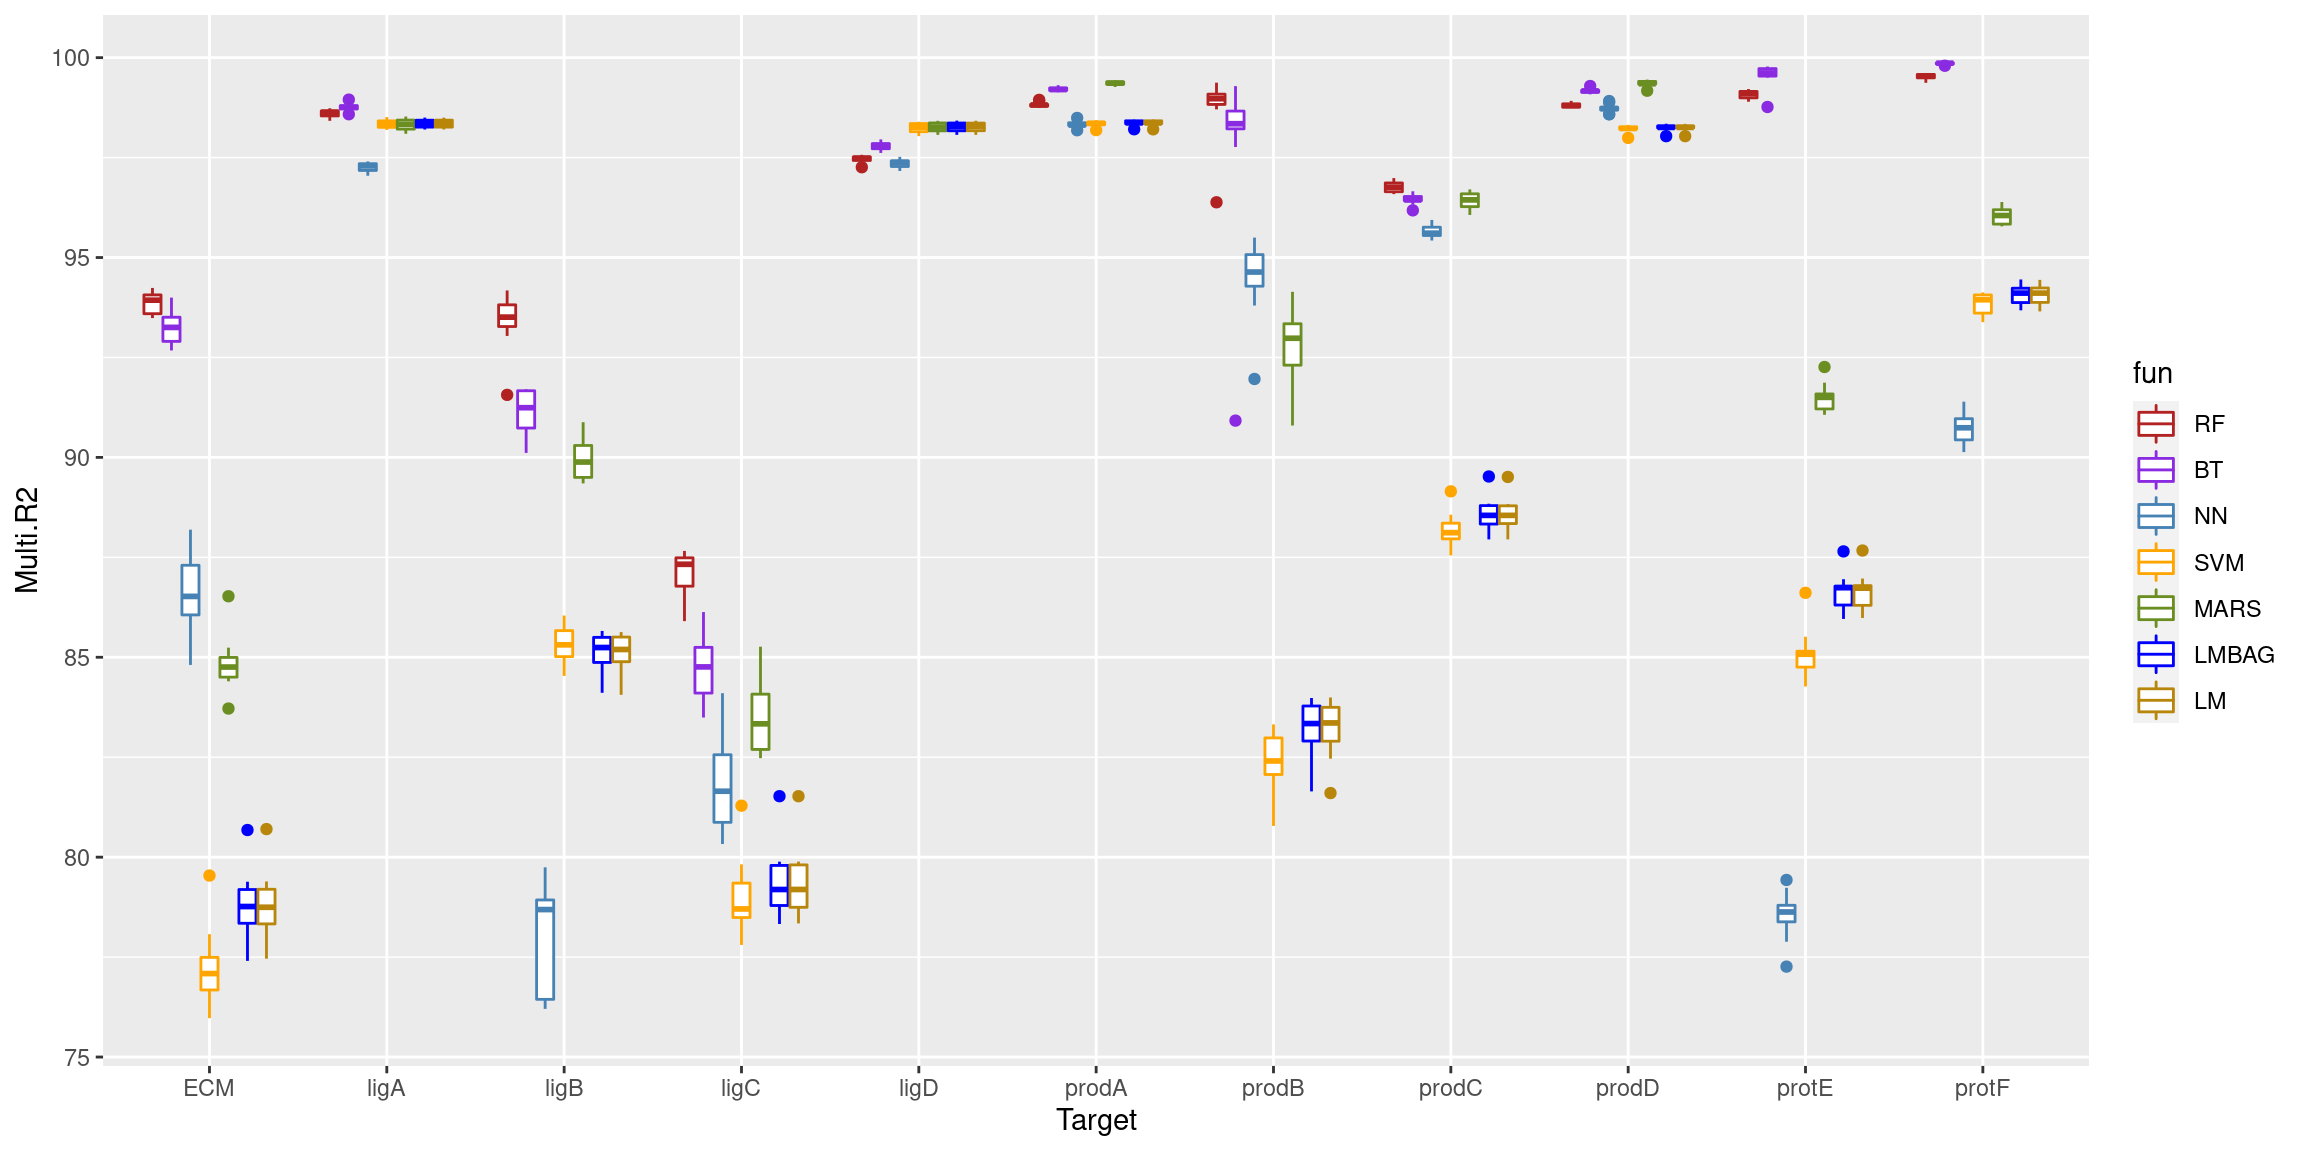
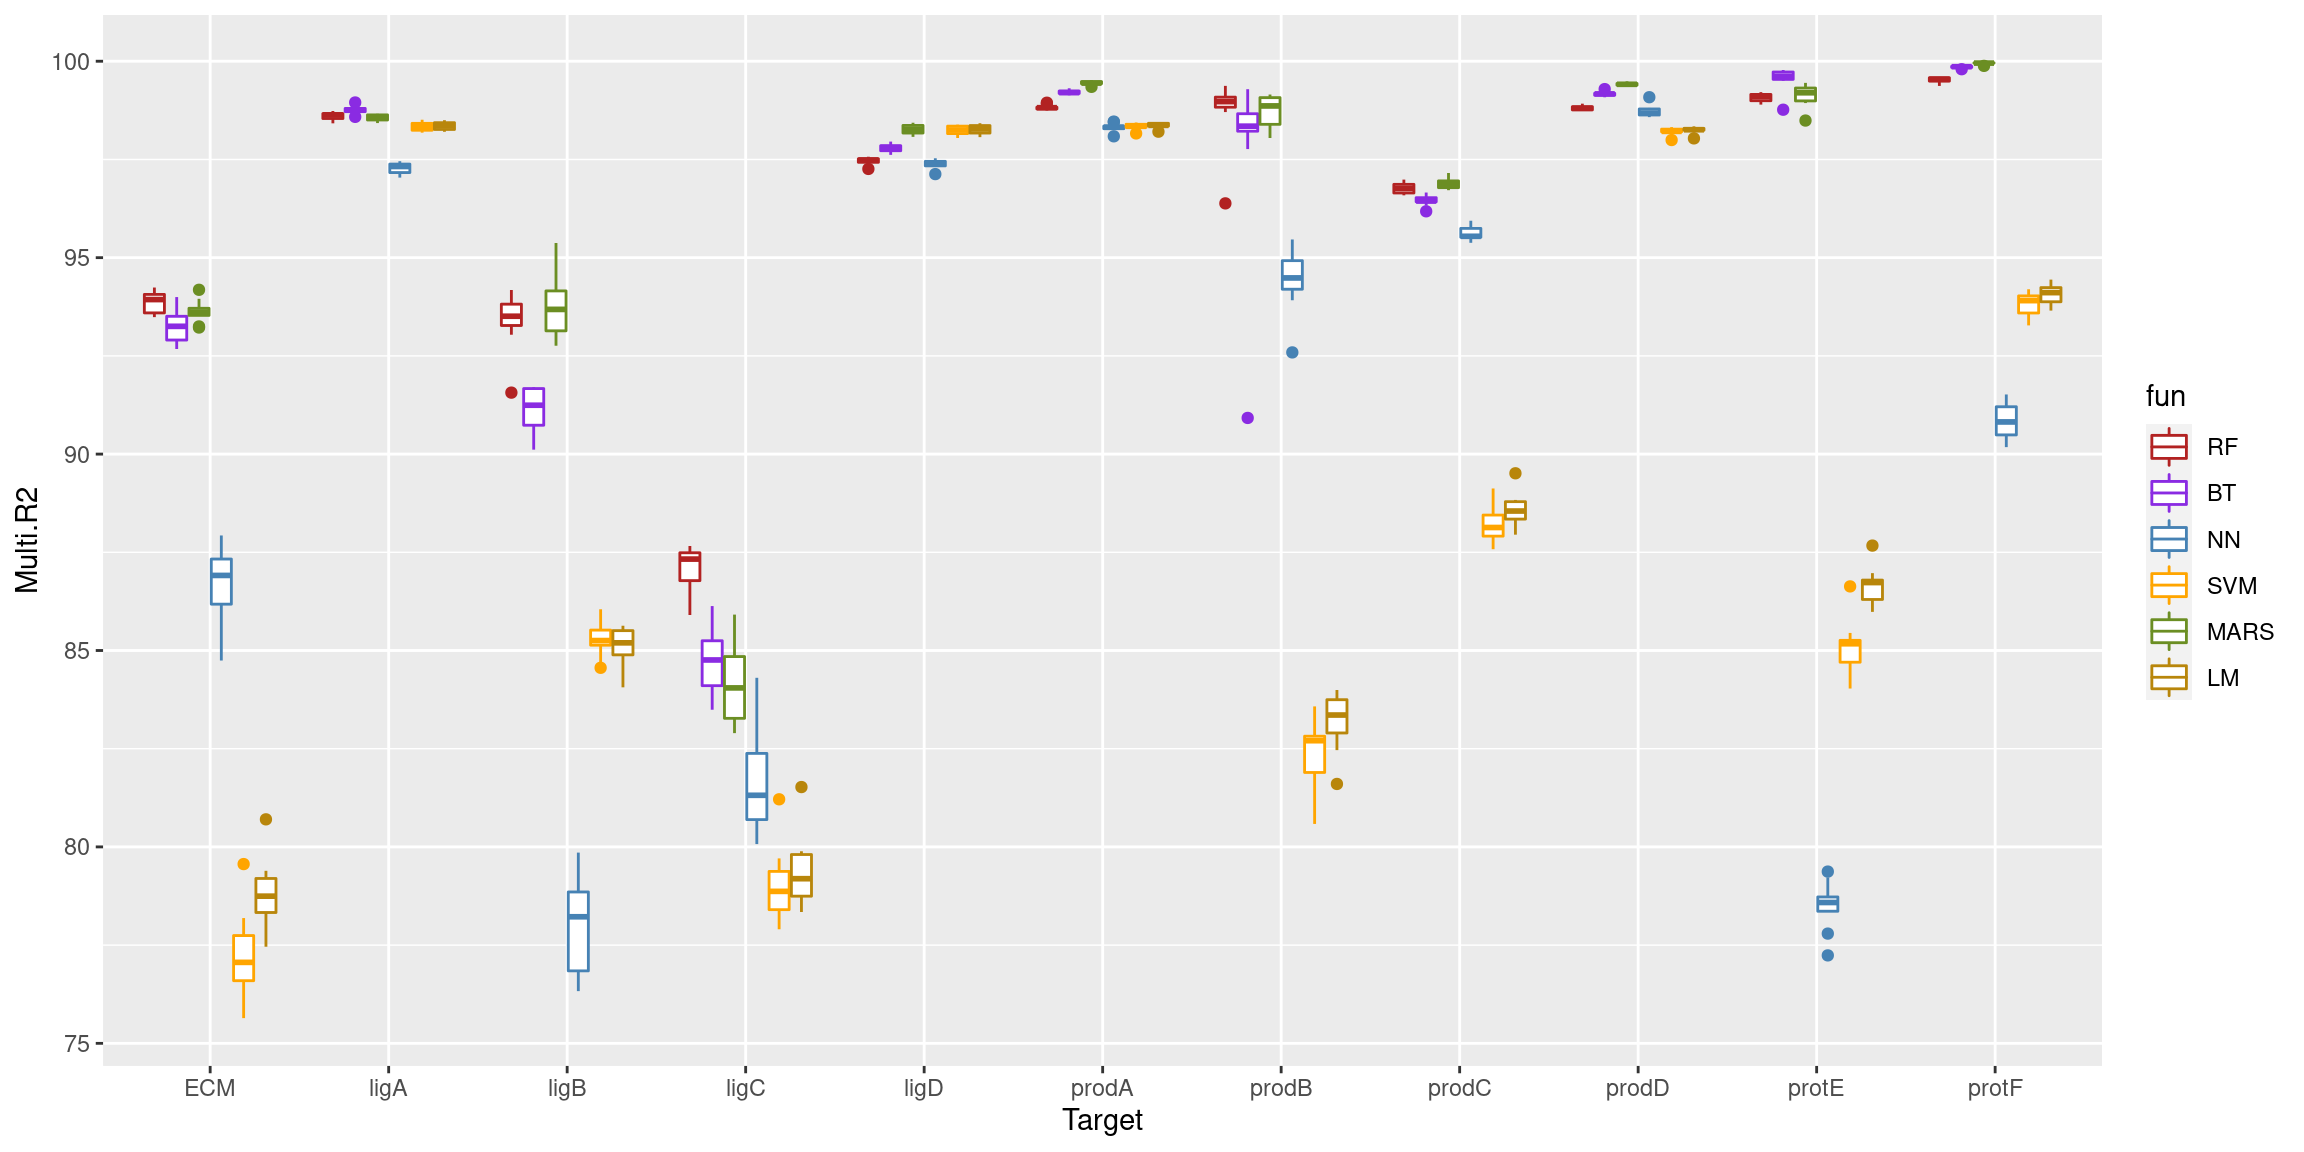
added degree = 2 as default arg for earth

diff --git a/docs/synthetic.html b/docs/synthetic.html
@@ -513,16 +513,16 @@ relative
 <div class="panel panel-default">
 <div class="panel-heading">
 <p class="panel-title">
-<a data-toggle="collapse" data-parent="#workflowr-checks" href="#strongRepositoryversionstrongahrefhttpsgithubcomschae211benchmarktreea3507bd5a761cbeca86d8c4ae2dd4ada9c96f561targetblanka3507bda"> <span class="glyphicon glyphicon-ok text-success" aria-hidden="true"></span> <strong>Repository version:</strong> <a href="https://github.com/schae211/benchmark/tree/a3507bd5a761cbeca86d8c4ae2dd4ada9c96f561" target="_blank">a3507bd</a> </a>
+<a data-toggle="collapse" data-parent="#workflowr-checks" href="#strongRepositoryversionstrongahrefhttpsgithubcomschae211benchmarktreefa11e1f3b15cc5a8cd92f3de16d6edeb4de520d9targetblankfa11e1fa"> <span class="glyphicon glyphicon-ok text-success" aria-hidden="true"></span> <strong>Repository version:</strong> <a href="https://github.com/schae211/benchmark/tree/fa11e1f3b15cc5a8cd92f3de16d6edeb4de520d9" target="_blank">fa11e1f</a> </a>
 </p>
 </div>
[2 lines of base64/hex data omitted]
 <div class="panel-body">
 <p>
 Great! You are using Git for version control. Tracking code development and connecting the code version to the results is critical for reproducibility.
 </p>
 <p>
-The results in this page were generated with repository version <a href="https://github.com/schae211/benchmark/tree/a3507bd5a761cbeca86d8c4ae2dd4ada9c96f561" target="_blank">a3507bd</a>. See the <em>Past versions</em> tab to see a history of the changes made to the R Markdown and HTML files.
+The results in this page were generated with repository version <a href="https://github.com/schae211/benchmark/tree/fa11e1f3b15cc5a8cd92f3de16d6edeb4de520d9" target="_blank">fa11e1f</a>. See the <em>Past versions</em> tab to see a history of the changes made to the R Markdown and HTML files.
 </p>
 <p>
 Note that you need to be careful to ensure that all relevant files for the analysis have been committed to Git prior to generating the results (you can use <code>wflow_publish</code> or <code>wflow_git_commit</code>). workflowr only checks the R Markdown file, but you know if there are other scripts or data files that it depends on. Below is the status of the Git repository when the results were generated:
@@ -550,8 +550,8 @@ Ignored files:
     Ignored:    results/
 
 Unstaged changes:
-    Modified:   analysis/mibi.Rmd
     Modified:   analysis/synthetic.Rmd
+    Modified:   analysis/tutorial.Rmd
 
 </code></pre>
 <p>
@@ -590,6 +590,40 @@ Message
 </tr>
 </thead>
 <tbody>
+<tr>
+<td>
+Rmd
+</td>
+<td>
+<a href="https://github.com/schae211/benchmark/blob/fa11e1f3b15cc5a8cd92f3de16d6edeb4de520d9/analysis/synthetic.Rmd" target="_blank">fa11e1f</a>
+</td>
+<td>
+schae211
+</td>
+<td>
+2021-11-12
+</td>
+<td>
+ran algorithms on synthetic dataset
+</td>
+</tr>
+<tr>
+<td>
+html
+</td>
+<td>
+<a href="https://rawcdn.githack.com/schae211/benchmark/fa11e1f3b15cc5a8cd92f3de16d6edeb4de520d9/docs/synthetic.html" target="_blank">fa11e1f</a>
+</td>
+<td>
+schae211
+</td>
+<td>
+2021-11-12
+</td>
+<td>
+ran algorithms on synthetic dataset
+</td>
+</tr>
 <tr>
 <td>
 Rmd
@@ -697,8 +731,8 @@ Generating paraview</code></pre>
 <h1>Running MISTy</h1>
 <p>Naming our model functions.</p>
 <pre class="r"><code>functions &lt;- c(&quot;RF&quot; = ranger_model, &quot;BT&quot; = boosted_trees_model, 
-               &quot;NN&quot; = nn_model, &quot;SVM&quot; = svm_model, &quot;MARS&quot; = bagged_earth_model,
-               &quot;LMBAG&quot; = bagged_linear_model, &quot;LM&quot; = linear_model)</code></pre>
+               &quot;NN&quot; = nn_model, &quot;SVM&quot; = svm_model, 
+               &quot;MARS&quot; = bagged_earth_model, &quot;LM&quot; = linear_model)</code></pre>
 <p>Running all functions on all samples on all markers.</p>
 <pre class="r"><code>if (&quot;misty.benchmark.synthetic.RDS&quot; %in% list.files(&quot;misty_results&quot;)) {
   misty.function &lt;- readRDS(&quot;misty_results/misty.benchmark.synthetic.RDS&quot;)
@@ -721,20 +755,57 @@ Generating paraview</code></pre>
 <p>Comparing the performances.</p>
 <pre class="r"><code># colors
 fun.colors &lt;- c(&quot;RF&quot; = &quot;firebrick&quot;, &quot;BT&quot; = &quot;blueviolet&quot;, &quot;NN&quot; = &quot;steelblue&quot;,
-                &quot;SVM&quot; = &quot;orange&quot;, &quot;MARS&quot; = &quot;olivedrab&quot;, &quot;LMBAG&quot; = &quot;blue&quot;,
-                &quot;LM&quot; = &quot;darkgoldenrod&quot;)</code></pre>
+                &quot;SVM&quot; = &quot;orange&quot;, &quot;MARS&quot; = &quot;olivedrab&quot;, &quot;LM&quot; = &quot;darkgoldenrod&quot;)
+order &lt;- c(&quot;RF&quot;, &quot;BT&quot;, &quot;MARS&quot;, &quot;NN&quot;, &quot;SVM&quot;, &quot;LM&quot;)</code></pre>
 <pre class="r"><code>misty.function.performance %&gt;%
   filter(measure == &quot;multi.R2&quot;) %&gt;%
-  mutate(fun = factor(fun, levels = c(&quot;RF&quot;, &quot;BT&quot;, &quot;NN&quot;, &quot;SVM&quot;, &quot;MARS&quot;, &quot;LMBAG&quot;, &quot;LM&quot;)), 
+  mutate(fun = factor(fun, levels = order), 
          sample = NULL, measure = NULL) %&gt;%
   ggplot() +
   geom_boxplot(aes(x = target, y = value, col = fun)) +
   labs(x = &quot;Target&quot;, y = &quot;Multi.R2&quot;) +
   scale_color_manual(values = fun.colors)</code></pre>
 <p><img src="figure/synthetic.Rmd/unnamed-chunk-8-1.png" width="1152" style="display: block; margin: auto;" /></p>
+<p>
+<button type="button" class="btn btn-default btn-xs btn-workflowr btn-workflowr-fig" data-toggle="collapse" data-target="#fig-unnamed-chunk-8-1">
+Past versions of unnamed-chunk-8-1.png
+</button>
+</p>
+<div id="fig-unnamed-chunk-8-1" class="collapse">
+<div class="table-responsive">
+<table class="table table-condensed table-hover">
+<thead>
+<tr>
+<th>
+Version
+</th>
+<th>
+Author
+</th>
+<th>
+Date
+</th>
+</tr>
+</thead>
+<tbody>
+<tr>
+<td>
+<a href="https://github.com/schae211/benchmark/blob/fa11e1f3b15cc5a8cd92f3de16d6edeb4de520d9/docs/figure/synthetic.Rmd/unnamed-chunk-8-1.png" target="_blank">fa11e1f</a>
+</td>
+<td>
+schae211
+</td>
+<td>
+2021-11-12
+</td>
+</tr>
+</tbody>
+</table>
+</div>
+</div>
 <pre class="r"><code>misty.function.performance %&gt;%
   filter(measure == &quot;multi.R2&quot;) %&gt;%
-  mutate(fun = factor(fun, levels = c(&quot;RF&quot;, &quot;BT&quot;, &quot;NN&quot;, &quot;SVM&quot;, &quot;MARS&quot;, &quot;LMBAG&quot;, &quot;LM&quot;)), 
+  mutate(fun = factor(fun, levels = order), 
          sample = NULL, measure = NULL) %&gt;%
   ggplot() +
   geom_boxplot(aes(x = fun, y = value, col = fun)) +
@@ -743,17 +814,54 @@ fun.colors &lt;- c(&quot;RF&quot; = &quot;firebrick&quot;, &quot;BT&quot; = &quo
   facet_wrap(~ target, ncol=3, scale=&quot;free&quot;) +
   theme(axis.text.x = element_blank())</code></pre>
 <p><img src="figure/synthetic.Rmd/unnamed-chunk-9-1.png" width="768" style="display: block; margin: auto;" /></p>
+<p>
+<button type="button" class="btn btn-default btn-xs btn-workflowr btn-workflowr-fig" data-toggle="collapse" data-target="#fig-unnamed-chunk-9-1">
+Past versions of unnamed-chunk-9-1.png
+</button>
+</p>
+<div id="fig-unnamed-chunk-9-1" class="collapse">
+<div class="table-responsive">
+<table class="table table-condensed table-hover">
+<thead>
+<tr>
+<th>
+Version
+</th>
+<th>
+Author
+</th>
+<th>
+Date
+</th>
+</tr>
+</thead>
+<tbody>
+<tr>
+<td>
+<a href="https://github.com/schae211/benchmark/blob/fa11e1f3b15cc5a8cd92f3de16d6edeb4de520d9/docs/figure/synthetic.Rmd/unnamed-chunk-9-1.png" target="_blank">fa11e1f</a>
+</td>
+<td>
+schae211
+</td>
+<td>
+2021-11-12
+</td>
+</tr>
+</tbody>
+</table>
+</div>
+</div>
 <p>Summary statistics</p>
 <pre class="r"><code>misty.function.performance %&gt;%
   filter(measure == &quot;multi.R2&quot;) %&gt;%
-  mutate(fun = factor(fun, levels = c(&quot;RF&quot;, &quot;BT&quot;, &quot;NN&quot;, &quot;SVM&quot;, &quot;MARS&quot;, &quot;LMBAG&quot;, &quot;LM&quot;)), 
+  mutate(fun = factor(fun, levels = c(&quot;RF&quot;, &quot;BT&quot;, &quot;NN&quot;, &quot;SVM&quot;, &quot;MARS&quot;, &quot;LM&quot;)), 
          sample = NULL, measure = NULL) %&gt;%
   group_by(fun) %&gt;%
   summarise(mean.R2 = mean(value), sd.R2 = sd(value)) %&gt;%
   arrange(desc(mean.R2))</code></pre>
 <div data-pagedtable="false">
 <script data-pagedtable-source type="application/json">
-{"columns":[{"label":["fun"],"name":[1],"type":["fct"],"align":["left"]},{"label":["mean.R2"],"name":[2],"type":["dbl"],"align":["right"]},{"label":["sd.R2"],"name":[3],"type":["dbl"],"align":["right"]}],"data":[{"1":"RF","2":"96.56229","3":"3.630176"},{"1":"BT","2":"96.14255","3":"4.564308"},{"1":"MARS","2":"93.66407","3":"5.456405"},{"1":"NN","2":"90.66986","3":"7.783347"},{"1":"LMBAG","2":"89.91070","3":"7.520931"},{"1":"LM","2":"89.90869","3":"7.521815"},{"1":"SVM","2":"89.47320","3":"7.903064"}],"options":{"columns":{"min":{},"max":[10]},"rows":{"min":[10],"max":[10]},"pages":{}}}
+{"columns":[{"label":["fun"],"name":[1],"type":["fct"],"align":["left"]},{"label":["mean.R2"],"name":[2],"type":["dbl"],"align":["right"]},{"label":["sd.R2"],"name":[3],"type":["dbl"],"align":["right"]}],"data":[{"1":"RF","2":"96.56229","3":"3.630176"},{"1":"MARS","2":"96.53293","3":"4.486362"},{"1":"BT","2":"96.14255","3":"4.564308"},{"1":"NN","2":"90.67428","3":"7.794228"},{"1":"LM","2":"89.90869","3":"7.521815"},{"1":"SVM","2":"89.47307","3":"7.898946"}],"options":{"columns":{"min":{},"max":[10]},"rows":{"min":[10],"max":[10]},"pages":{}}}
   </script>
 </div>
 <br>
